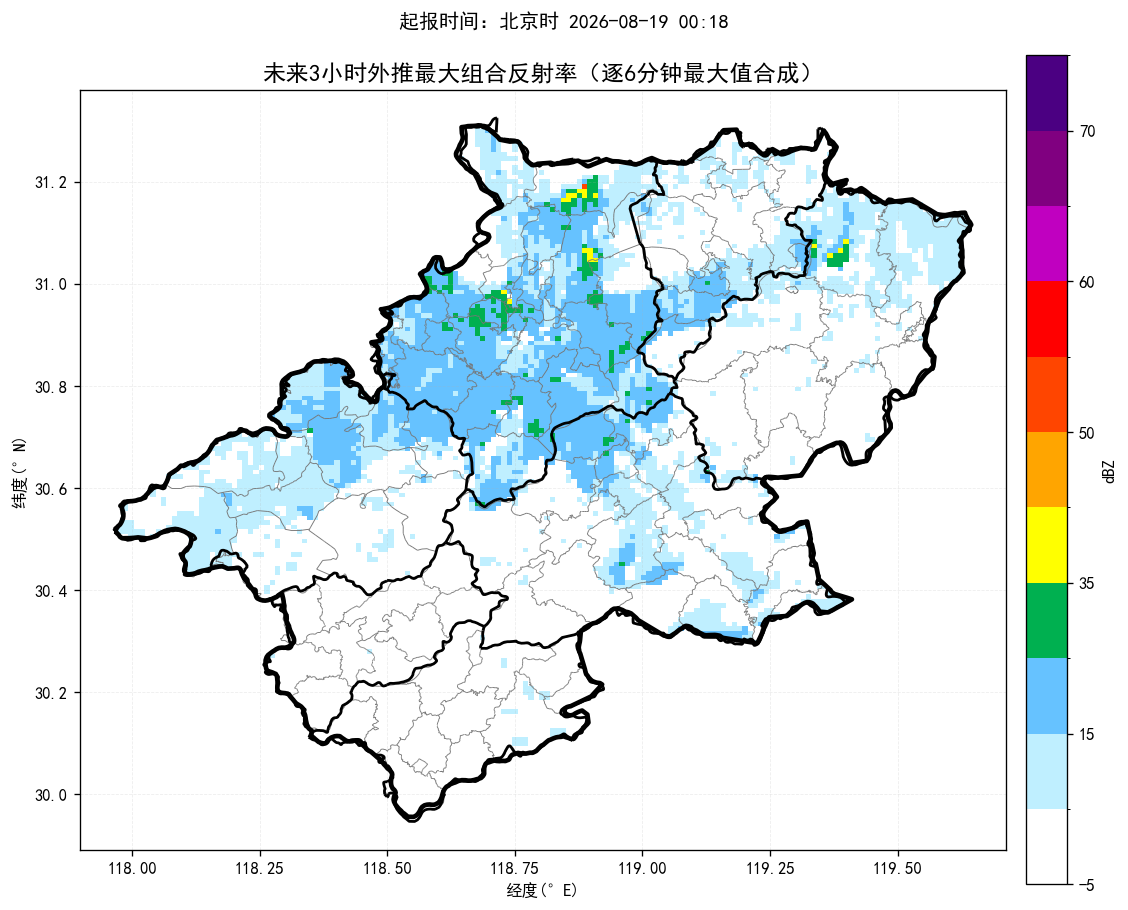
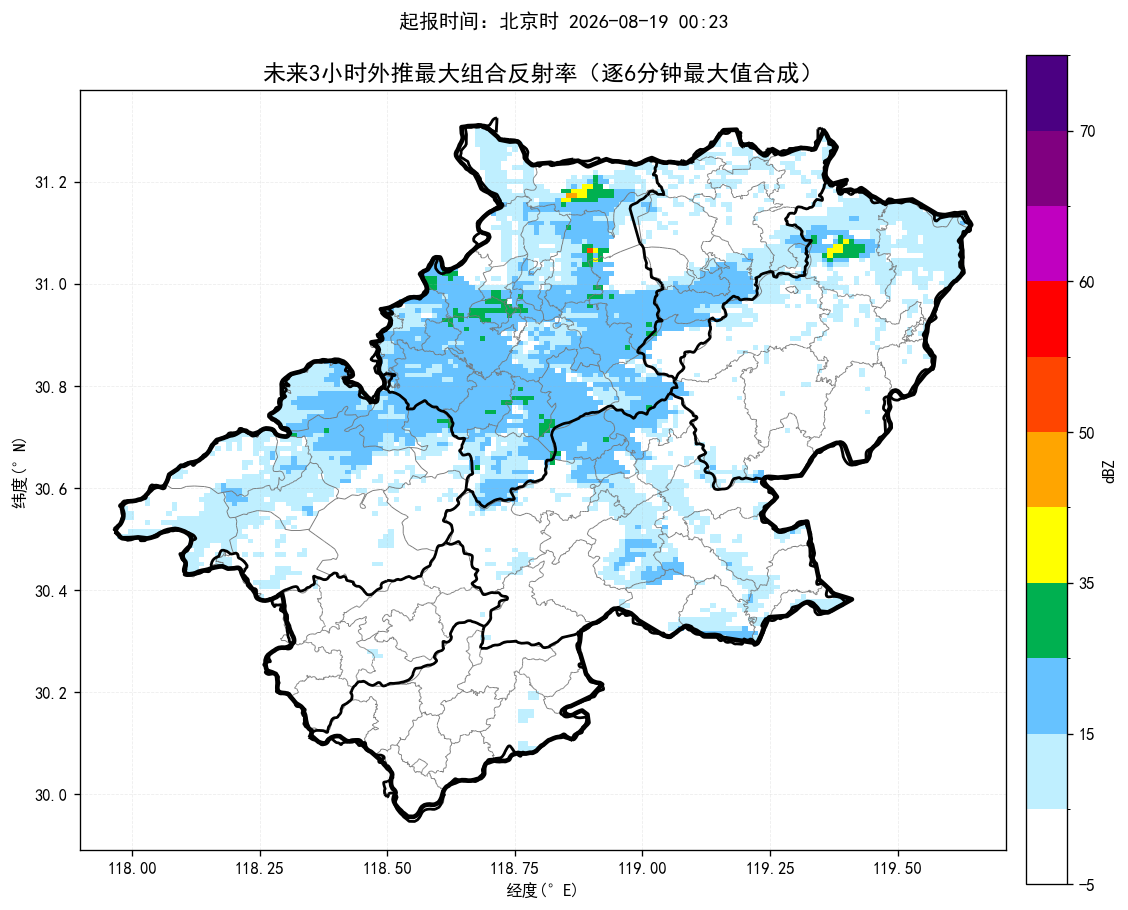
update nowcast products

diff --git a/index.html b/index.html
@@ -15,11 +15,11 @@ img.product{display:block;width:100%;height:auto;margin:10px auto 26px;border:1p
 .footer{font-size:13px;color:#777;text-align:center;margin-top:30px}
 @media(max-width:700px){.sheet{margin:0;padding:18px 15px}.alert-title{font-size:22px}.county-line{font-size:17px}.prob{font-size:18px}}
 </style></head><body><main class="sheet">
-<div class="time">起报时间：北京时 2026-08-19 00:18</div>
-<div class="alert-title">未来一小时降水量超过 20 毫米的乡镇：</div><div class="county-line">宣州区：狸桥镇</div>
+<div class="time">起报时间：北京时 2026-08-19 00:23</div>
+<div class="alert-title">未来一小时降水量超过 20 毫米的乡镇：</div><div class="county-line">宣州区：沈村镇</div>
 <div class="alert-title">未来三小时降水量超过 50 毫米的乡镇：</div><div class="county-line">无</div>
 <div class="alert-title">未来三小时雷暴大风（组合反射率 > 55 dBZ）的乡镇：</div><div class="county-line">无</div>
-<div class="prob">最大降水量概率预估：宣城市范围内未来三小时累计降水达到50毫米概率约2%，达到80毫米概率约0%，达到100毫米概率约0%。</div>
+<div class="prob">最大降水量概率预估：宣城市范围内未来三小时累计降水达到50毫米概率约6%，达到80毫米概率约0%，达到100毫米概率约0%。</div>
 <div class="section-title">未来降水预报图：</div><img class="product" src="短临降水预报.png" alt="未来降水预报图">
 <div class="section-title">未来三小时组合反射率图：</div><img class="product" src="未来3小时组合反射率.png" alt="未来三小时组合反射率图">
 <div class="section-title">未来三小时雷暴大风图：</div><img class="product" src="未来3小时雷暴大风.png" alt="未来三小时雷暴大风图">
